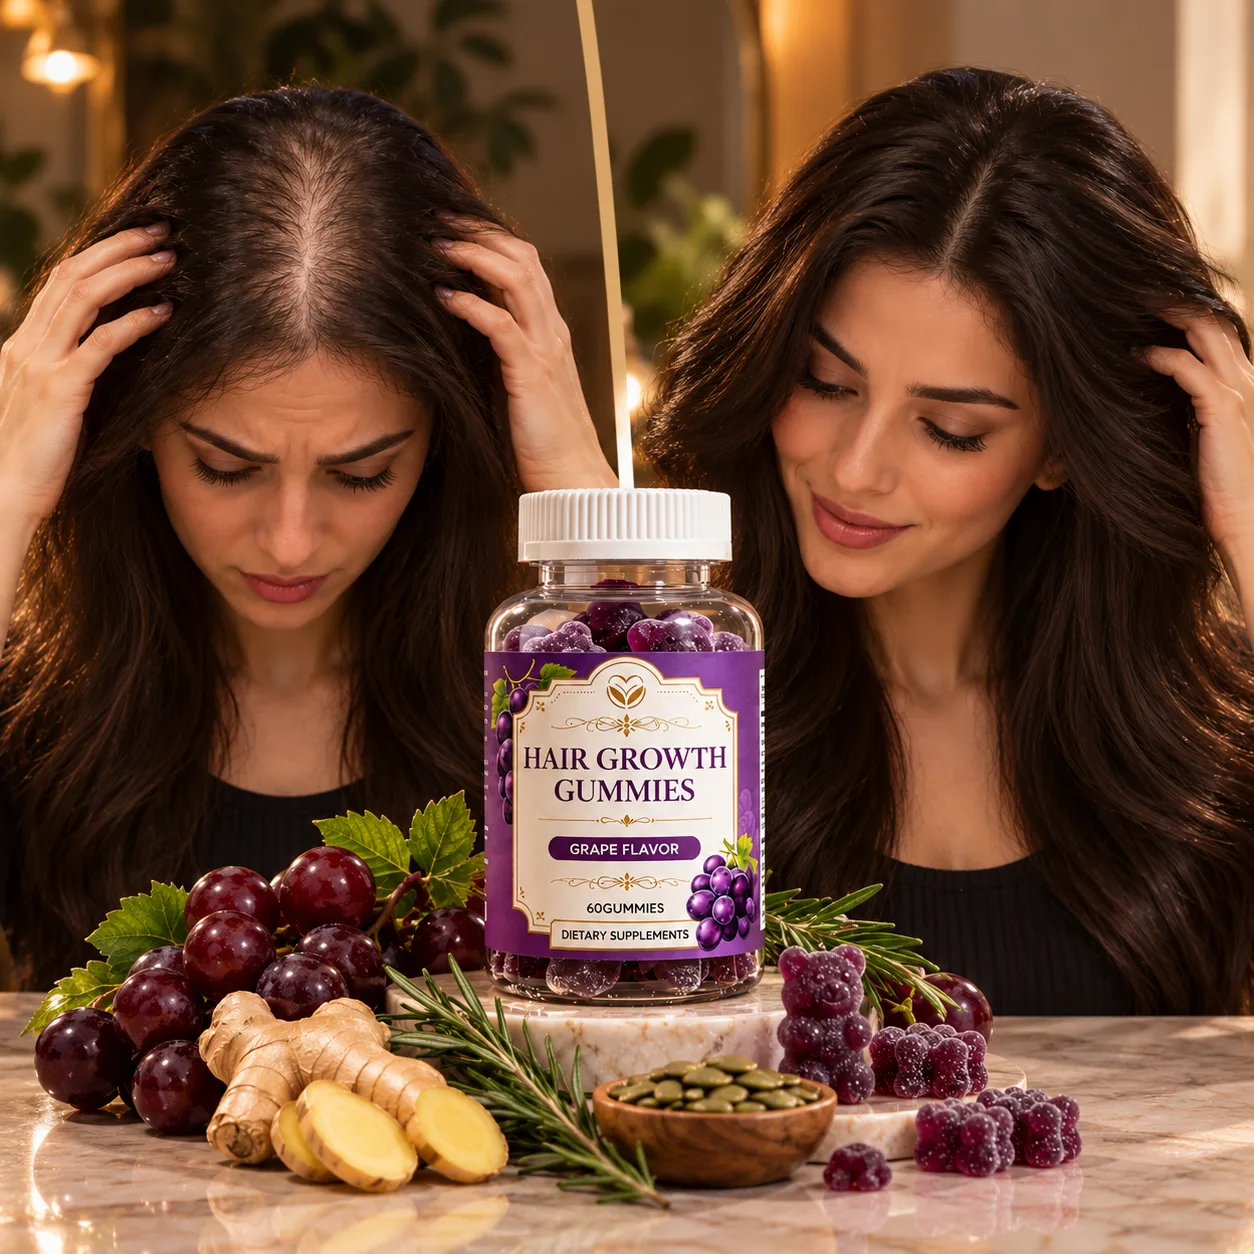
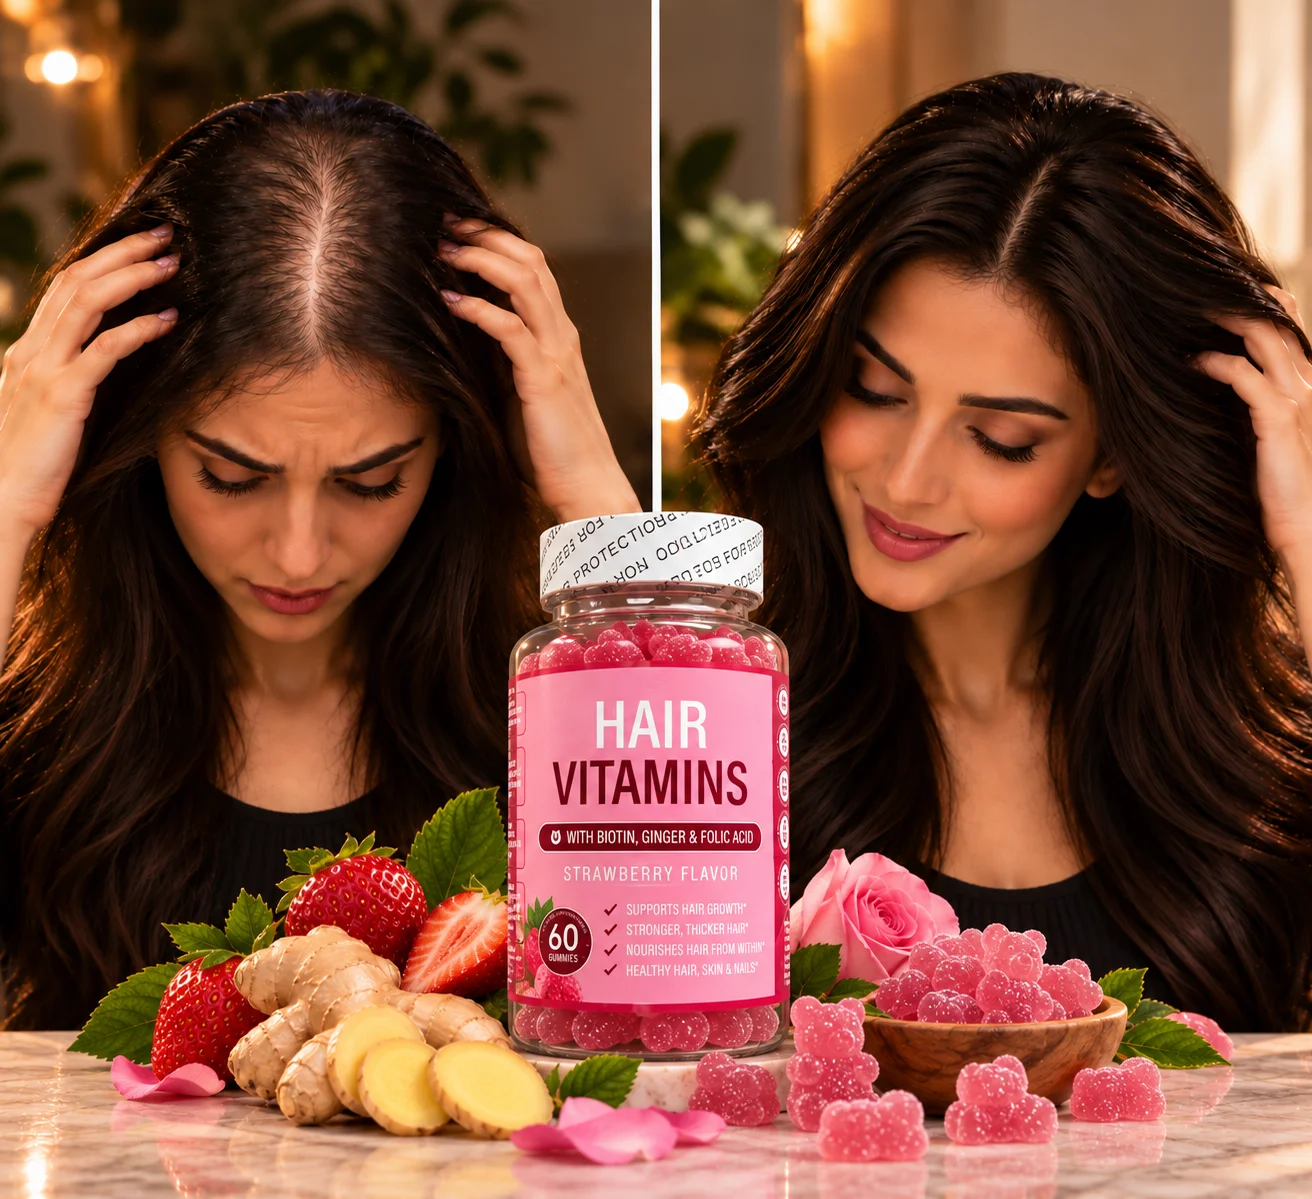
feat(hair-gummies): set new main PDP hero image (#53)

diff --git a/src/config/images.ts b/src/config/images.ts
@@ -29,8 +29,7 @@ export const images = {
    */
   productPage: {
     hair: {
-      /** خاوي — منتج جديد قريباً (نفس slug hair-gummies) */
-      src: "",
+      src: "/images/products/pdp/hair-main.webp?v=20260924-1916",
       storySrc: undefined as string | undefined,
       upsellSlotSrc: undefined as Partial<Record<1 | 2 | 3, string>> | undefined,
       placeholder: "[صورة صفحة المنتج — علكات الشعر]",
